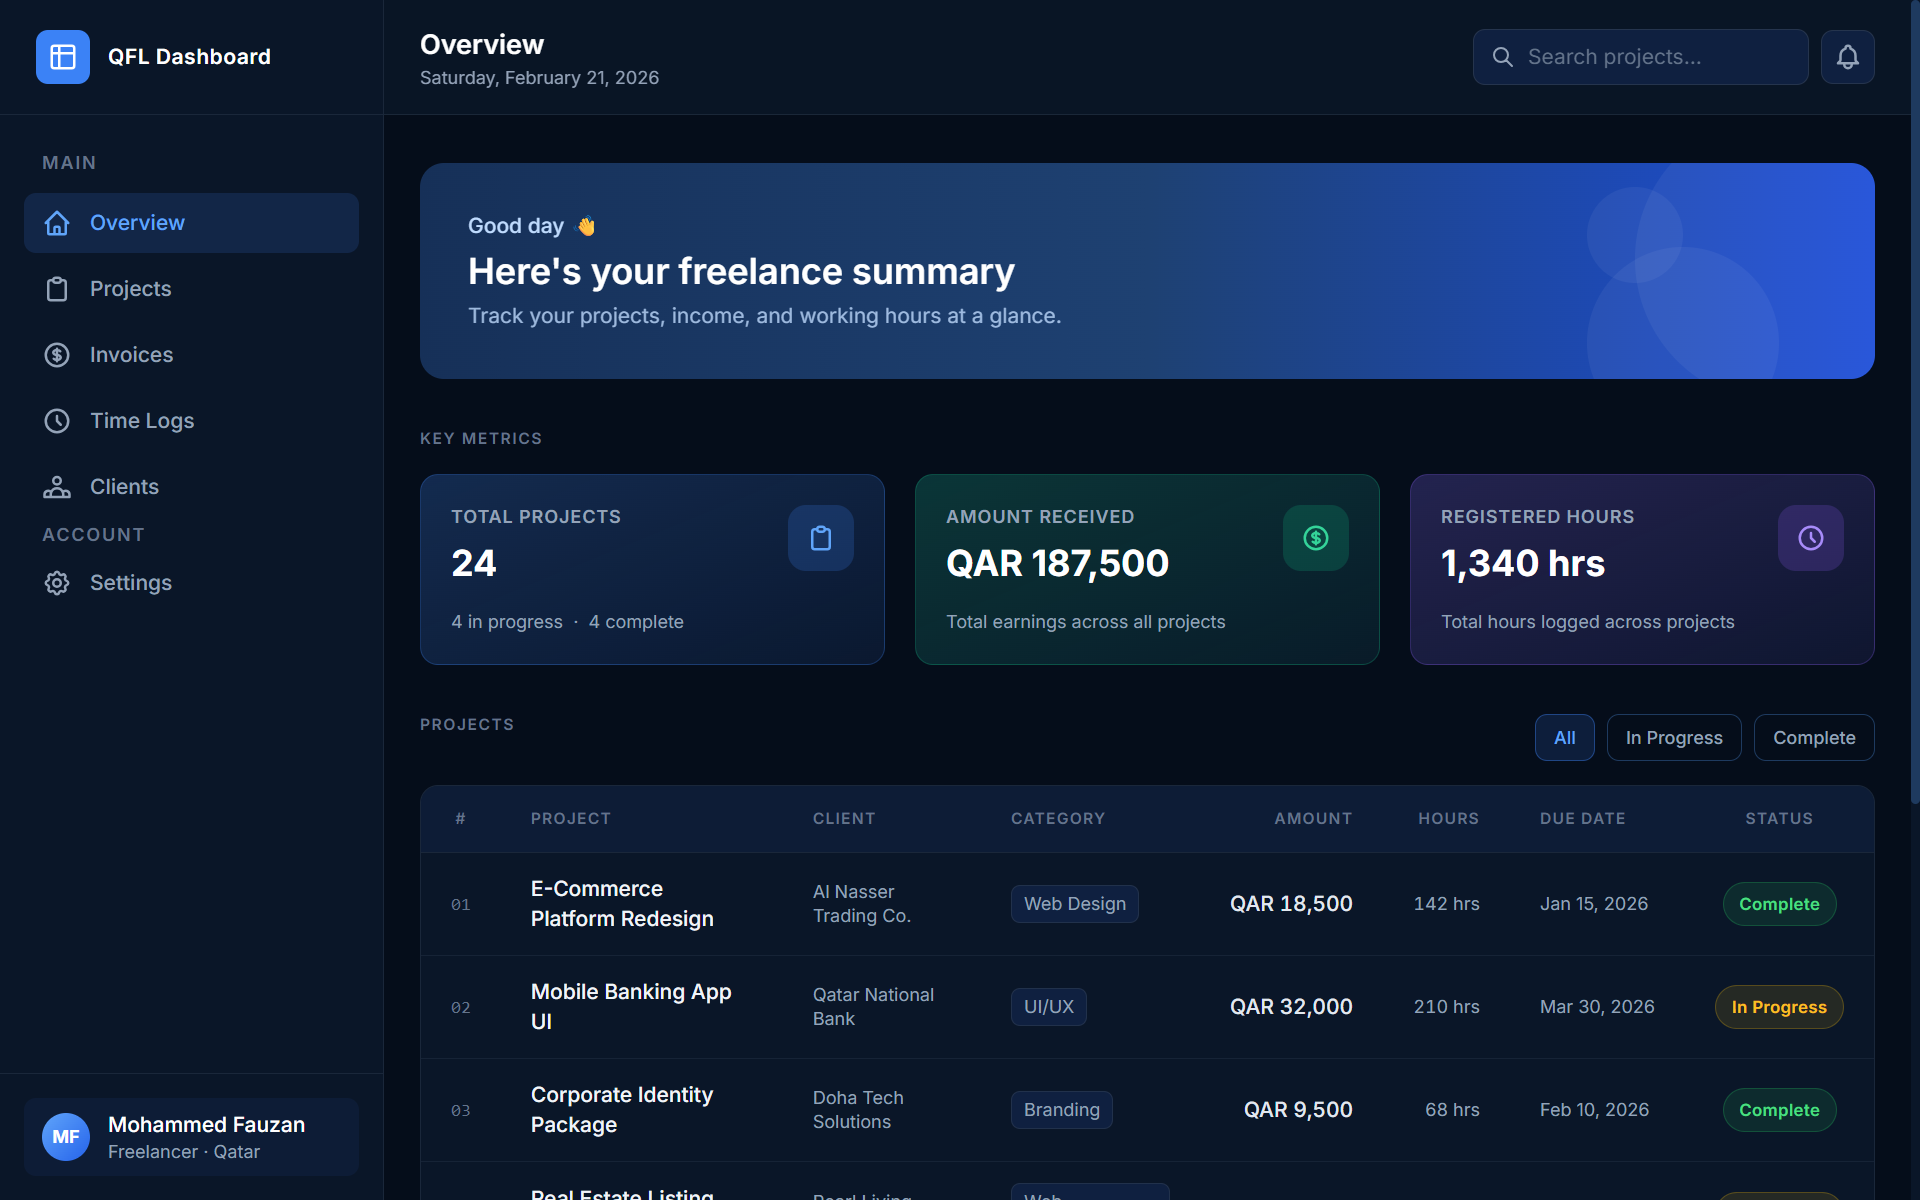
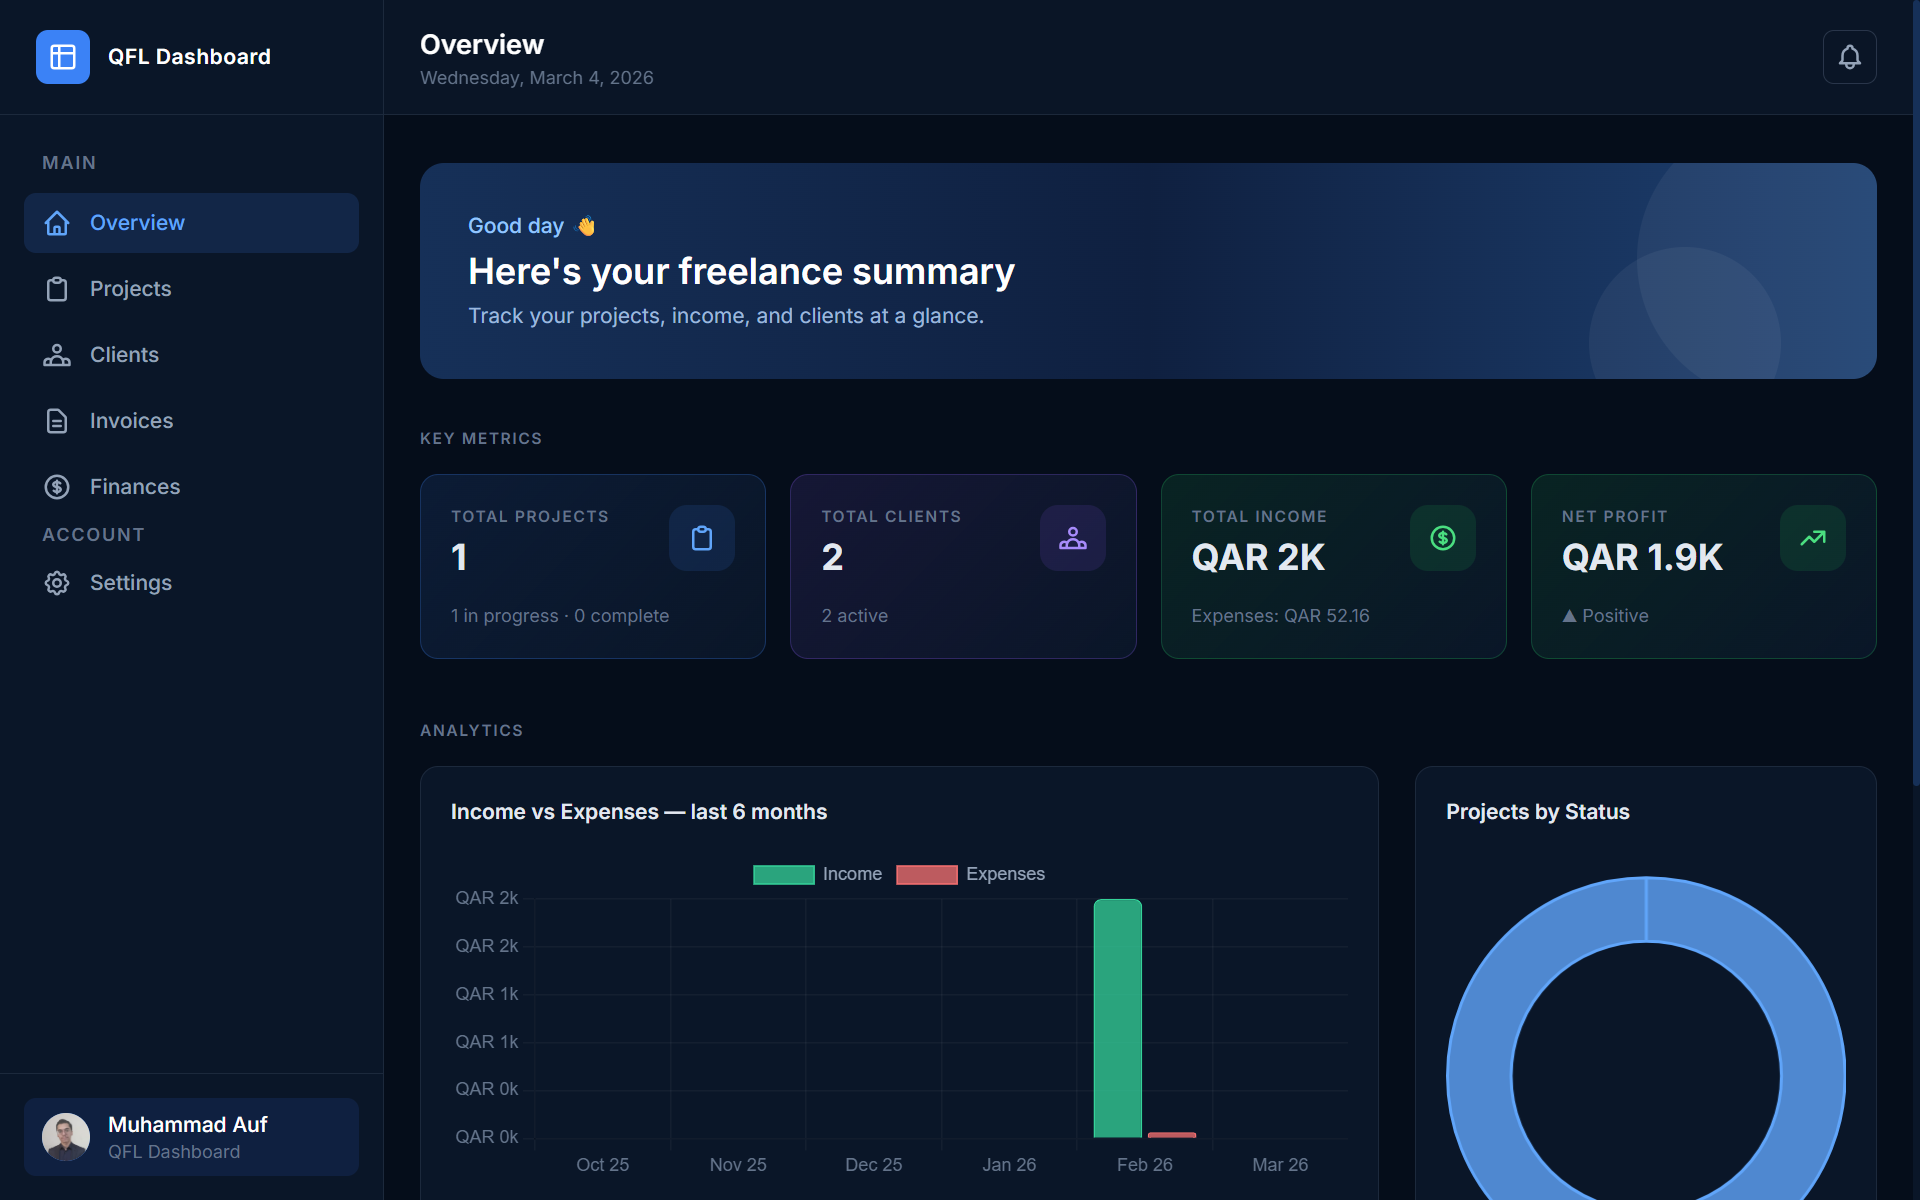
Add Projects section, Tools carousel, WhatsApp btn, footer social links, responsive fixes

diff --git a/script.js b/script.js
@@ -290,9 +290,9 @@ function renderTools(tools) {
     toolsGrid.innerHTML = tools.map(tool => {
         const label = currentLang === 'ar' ? tool.nameAr : tool.nameEn;
         return `
-            <div class="glass-card p-6 rounded-2xl text-center hover:scale-110 transition-transform duration-300 group flex flex-col items-center">
-                <img src="${tool.icon}" alt="${tool.nameEn}" class="w-12 h-12 mb-3 group-hover:scale-110 transition-transform duration-300">
-                <h3 class="text-white font-semibold" data-en="${tool.nameEn}" data-ar="${tool.nameAr}">${label}</h3>
+            <div class="carousel-card-tool glass-card p-5 rounded-2xl text-center hover:scale-105 transition-transform duration-300 group flex flex-col items-center">
+                <img src="${tool.icon}" alt="${tool.nameEn}" class="w-10 h-10 mb-3 group-hover:scale-110 transition-transform duration-300">
+                <h3 class="text-white text-sm font-semibold leading-tight" data-en="${tool.nameEn}" data-ar="${tool.nameAr}">${label}</h3>
             </div>
         `;
     }).join('');
@@ -337,6 +337,54 @@ function renderProjects(projects) {
     }).join('');
 }
 
+// ==========================================
+// Carousel – auto-scroll + arrow navigation
+// ==========================================
+function initCarousel(trackId, prevBtnId, nextBtnId, intervalMs = 3500) {
+    const track   = document.getElementById(trackId);
+    const prevBtn = document.getElementById(prevBtnId);
+    const nextBtn = document.getElementById(nextBtnId);
+    if (!track || !prevBtn || !nextBtn) return;
+
+    const getStep = () => {
+        const card = track.firstElementChild;
+        if (!card) return 220;
+        const gap = parseFloat(getComputedStyle(track).gap) || 20;
+        return card.offsetWidth + gap;
+    };
+
+    const scrollNext = () => {
+        const { scrollLeft, scrollWidth, clientWidth } = track;
+        if (scrollLeft + clientWidth >= scrollWidth - 4) {
+            track.scrollTo({ left: 0, behavior: 'smooth' });
+        } else {
+            track.scrollBy({ left: getStep(), behavior: 'smooth' });
+        }
+    };
+
+    const scrollPrev = () => {
+        if (track.scrollLeft <= 4) {
+            track.scrollTo({ left: track.scrollWidth, behavior: 'smooth' });
+        } else {
+            track.scrollBy({ left: -getStep(), behavior: 'smooth' });
+        }
+    };
+
+    // RTL: flip direction
+    const isRtl = () => document.documentElement.dir === 'rtl';
+    prevBtn.addEventListener('click', () => isRtl() ? scrollNext() : scrollPrev());
+    nextBtn.addEventListener('click', () => isRtl() ? scrollPrev() : scrollNext());
+
+    let timer = setInterval(scrollNext, intervalMs);
+    const pause = () => clearInterval(timer);
+    const resume = () => { timer = setInterval(scrollNext, intervalMs); };
+
+    track.addEventListener('mouseenter', pause);
+    track.addEventListener('mouseleave', resume);
+    track.addEventListener('touchstart', pause, { passive: true });
+    track.addEventListener('touchend',   resume, { passive: true });
+}
+
 async function loadExternalContent() {
     try {
         const [servicesResponse, toolsResponse, projectsResponse] = await Promise.all([
@@ -359,6 +407,8 @@ async function loadExternalContent() {
         renderTools(tools);
         renderProjects(projects);
 
+        initCarousel('toolsGrid', 'toolsPrev', 'toolsNext', 3000);
+
         setLanguage(currentLang);
         animateOnScroll();
     } catch (error) {
@@ -367,68 +417,6 @@ async function loadExternalContent() {
 }
 
 window.addEventListener('load', loadExternalContent);
-
-// ==========================================
-// Service Order Form – Details Reveal
-// ==========================================
-const serviceSelect = document.getElementById('serviceSelect');
-const serviceDetails = document.getElementById('serviceDetails');
-const serviceDetailTitle = document.getElementById('serviceDetailTitle');
-const serviceDetailPrice = document.getElementById('serviceDetailPrice');
-const serviceDetailList = document.getElementById('serviceDetailList');
-
-const serviceData = {
-    'Frontend Development': {
-        price: '500 QR',
-        items: [
-            'Responsive design for all screen sizes',
-            'Modern UI with HTML, CSS & JavaScript',
-            'Cross-browser compatibility',
-            'Performance optimized code',
-            'Up to 5 pages'
-        ]
-    },
-    'Landing Page': {
-        price: '300 QR',
-        items: [
-            'Single-page conversion-focused design',
-            'Contact form integration',
-            'SEO-friendly structure',
-            'Mobile-first responsive layout',
-            'Fast delivery within 3 days'
-        ]
-    },
-    'Full-Stack WebApp': {
-        price: '1500 QR',
-        items: [
-            'Frontend & Backend development',
-            'Database design and integration',
-            'User authentication & authorization',
-            'REST API development',
-            'Deployment & hosting setup'
-        ]
-    }
-};
-
-if (serviceSelect) {
-    serviceSelect.addEventListener('change', function () {
-        const key = this.value;
-        const data = serviceData[key];
-
-        if (data) {
-            serviceDetailTitle.textContent = this.options[this.selectedIndex].textContent;
-            serviceDetailPrice.textContent = data.price;
-            serviceDetailList.innerHTML = data.items
-                .map(item => `<li class="flex items-start gap-2"><svg class="w-4 h-4 mt-0.5 text-accent-gold shrink-0" viewBox="0 0 20 20" fill="currentColor"><path fill-rule="evenodd" d="M16.707 5.293a1 1 0 010 1.414l-8 8a1 1 0 01-1.414 0l-4-4a1 1 0 011.414-1.414L8 12.586l7.293-7.293a1 1 0 011.414 0z" clip-rule="evenodd"/></svg><span>${item}</span></li>`)
-                .join('');
-            serviceDetails.classList.remove('hidden');
-            serviceDetails.classList.add('service-details-show');
-        } else {
-            serviceDetails.classList.add('hidden');
-            serviceDetails.classList.remove('service-details-show');
-        }
-    });
-}
 
 // Update placeholders on language change
 function updatePlaceholders(lang) {

diff --git a/index.html b/index.html
@@ -235,8 +235,16 @@
         <div class="max-w-7xl mx-auto">
             <h2 class="font-display text-4xl md:text-5xl font-bold text-center mb-4 text-gradient" data-en="My Tools" data-ar="أدواتي">My Tools</h2>
             <p class="text-center text-white/60 mb-16 text-lg" data-en="Technologies and tools I work with" data-ar="التقنيات والأدوات التي أعمل بها">Technologies and tools I work with</p>
-            
-            <div id="toolsGrid" class="grid grid-cols-2 md:grid-cols-3 lg:grid-cols-4 xl:grid-cols-5 gap-6"></div>
+
+            <div class="carousel-wrapper">
+                <button id="toolsPrev" class="carousel-btn carousel-btn-prev" aria-label="Previous">
+                    <svg class="w-5 h-5" viewBox="0 0 24 24" fill="none" stroke="currentColor" stroke-width="2.5"><polyline points="15 18 9 12 15 6"/></svg>
+                </button>
+                <div id="toolsGrid" class="carousel-track"></div>
+                <button id="toolsNext" class="carousel-btn carousel-btn-next" aria-label="Next">
+                    <svg class="w-5 h-5" viewBox="0 0 24 24" fill="none" stroke="currentColor" stroke-width="2.5"><polyline points="9 18 15 12 9 6"/></svg>
+                </button>
+            </div>
         </div>
     </section>
 
@@ -283,18 +291,8 @@
                         <option value="Frontend Development" data-en="Frontend Development" data-ar="تطوير الواجهات الأمامية">Frontend Development</option>
                         <option value="Landing Page" data-en="Landing Page" data-ar="صفحة هبوط">Landing Page</option>
                         <option value="Full-Stack WebApp" data-en="Full-Stack WebApp" data-ar="تطبيق ويب متكامل">Full-Stack WebApp</option>
+                        <option value="Other" data-en="Other" data-ar="أخرى">Other</option>
                     </select>
-                </div>
-
-                <!-- Service Details Reveal -->
-                <div id="serviceDetails" class="hidden service-details-reveal">
-                    <div class="rounded-2xl bg-white/5 border border-accent-gold/30 p-6 space-y-3">
-                        <div class="flex items-center justify-between">
-                            <h4 id="serviceDetailTitle" class="text-lg font-bold text-white"></h4>
-                            <span id="serviceDetailPrice" class="text-xl font-bold text-accent-gold"></span>
-                        </div>
-                        <ul id="serviceDetailList" class="space-y-2 text-white/70 text-sm"></ul>
-                    </div>
                 </div>
 
                 <!-- Details -->
@@ -359,6 +357,16 @@
                     </div>
                     <!-- Social Links -->
                     <div class="flex gap-4">
+                        <a href="https://wa.me/97433005113"
+                           aria-label="WhatsApp"
+                           target="_blank"
+                           rel="noopener noreferrer"
+                           class="w-10 h-10 flex items-center justify-center rounded-full backdrop-blur-xl bg-white/5 border border-white/10 text-white hover:scale-110 transition-all duration-300"
+                           style="color:#fff" onmouseover="this.style.backgroundColor='#25D366'" onmouseout="this.style.backgroundColor=''">
+                            <svg class="w-5 h-5" viewBox="0 0 24 24" fill="currentColor">
+                                <path d="M20.52 3.48A11.93 11.93 0 0 0 12 0C5.373 0 0 5.373 0 12a11.93 11.93 0 0 0 1.67 6.12L0 24l6.09-1.6A11.94 11.94 0 0 0 12 24c6.627 0 12-5.373 12-12 0-3.204-1.248-6.216-3.48-8.52zM12 22a9.94 9.94 0 0 1-5.06-1.38l-.36-.21-3.74.98.99-3.63-.24-.37A9.944 9.944 0 0 1 2 12C2 6.477 6.477 2 12 2s10 4.477 10 10-4.477 10-10 10zm5.47-7.4c-.3-.15-1.77-.87-2.04-.97-.27-.1-.47-.15-.67.15s-.77.97-.94 1.17c-.17.2-.35.22-.65.07a8.16 8.16 0 0 1-2.4-1.48 8.98 8.98 0 0 1-1.66-2.07c-.17-.3-.02-.46.13-.6.13-.13.3-.35.45-.52.15-.17.2-.3.3-.5.1-.2.05-.37-.02-.52-.07-.15-.67-1.6-.91-2.2-.24-.57-.48-.5-.67-.5h-.57c-.2 0-.52.07-.8.37-.27.3-1.04 1.02-1.04 2.48s1.07 2.88 1.22 3.08c.15.2 2.1 3.2 5.08 4.49.71.31 1.27.49 1.7.63.72.23 1.37.2 1.88.12.57-.08 1.77-.72 2.02-1.42.25-.7.25-1.3.17-1.42-.07-.12-.27-.2-.57-.35z"/>
+                            </svg>
+                        </a>
                         <a href="https://www.linkedin.com/in/mmfauf/" 
                            aria-label="LinkedIn" 
                            target="_blank"
@@ -385,6 +393,16 @@
             </div>
         </div>
     </footer>
+
+    <!-- WhatsApp Floating Button -->
+    <a href="https://wa.me/97433005113" target="_blank" rel="noopener noreferrer"
+       aria-label="Chat on WhatsApp"
+       class="fixed bottom-6 right-6 rtl:right-auto rtl:left-6 z-[9999] flex items-center justify-center w-14 h-14 rounded-full shadow-lg hover:scale-110 active:scale-95 transition-transform duration-300"
+       style="background-color: #25D366;">
+        <svg class="w-7 h-7 text-white" viewBox="0 0 24 24" fill="currentColor" xmlns="http://www.w3.org/2000/svg">
+            <path d="M20.52 3.48A11.93 11.93 0 0 0 12 0C5.373 0 0 5.373 0 12a11.93 11.93 0 0 0 1.67 6.12L0 24l6.09-1.6A11.94 11.94 0 0 0 12 24c6.627 0 12-5.373 12-12 0-3.204-1.248-6.216-3.48-8.52zM12 22a9.94 9.94 0 0 1-5.06-1.38l-.36-.21-3.74.98.99-3.63-.24-.37A9.944 9.944 0 0 1 2 12C2 6.477 6.477 2 12 2s10 4.477 10 10-4.477 10-10 10zm5.47-7.4c-.3-.15-1.77-.87-2.04-.97-.27-.1-.47-.15-.67.15s-.77.97-.94 1.17c-.17.2-.35.22-.65.07a8.16 8.16 0 0 1-2.4-1.48 8.98 8.98 0 0 1-1.66-2.07c-.17-.3-.02-.46.13-.6.13-.13.3-.35.45-.52.15-.17.2-.3.3-.5.1-.2.05-.37-.02-.52-.07-.15-.67-1.6-.91-2.2-.24-.57-.48-.5-.67-.5h-.57c-.2 0-.52.07-.8.37-.27.3-1.04 1.02-1.04 2.48s1.07 2.88 1.22 3.08c.15.2 2.1 3.2 5.08 4.49.71.31 1.27.49 1.7.63.72.23 1.37.2 1.88.12.57-.08 1.77-.72 2.02-1.42.25-.7.25-1.3.17-1.42-.07-.12-.27-.2-.57-.35z"/>
+        </svg>
+    </a>
 
     <script src="script.js"></script>
 </body>

diff --git a/styles.css b/styles.css
@@ -1888,6 +1888,77 @@ body > .control-buttons .lang-toggle {
 }
 
 /* ==================== */
+/* ==========================================
+   Carousel
+   ========================================== */
+.carousel-wrapper {
+    position: relative;
+    padding: 0 3rem;
+}
+
+.carousel-track {
+    display: flex;
+    gap: 1.25rem;
+    overflow-x: auto;
+    scroll-snap-type: x mandatory;
+    scroll-behavior: smooth;
+    -webkit-overflow-scrolling: touch;
+    scrollbar-width: none;
+    padding: 0.5rem 0 1rem;
+}
+
+.carousel-track::-webkit-scrollbar {
+    display: none;
+}
+
+/* Tool cards */
+.carousel-card-tool {
+    scroll-snap-align: start;
+    flex-shrink: 0;
+    width: 9rem;
+}
+
+@media (max-width: 640px) {
+    .carousel-wrapper {
+        padding: 0 2.25rem;
+    }
+    .carousel-card-tool {
+        width: 7.5rem;
+    }
+}
+
+.carousel-btn {
+    position: absolute;
+    top: 50%;
+    transform: translateY(-50%);
+    z-index: 10;
+    width: 2.65rem;
+    height: 2.65rem;
+    border-radius: 50%;
+    display: flex;
+    align-items: center;
+    justify-content: center;
+    background: rgba(255, 255, 255, 0.07);
+    backdrop-filter: blur(12px);
+    border: 1px solid rgba(255, 255, 255, 0.12);
+    color: #ffc857;
+    cursor: pointer;
+    transition: background 0.25s, transform 0.25s;
+}
+
+.carousel-btn:hover {
+    background: rgba(255, 200, 87, 0.18);
+    transform: translateY(-50%) scale(1.12);
+}
+
+.carousel-btn-prev { left: 0; }
+.carousel-btn-next { right: 0; }
+
+[dir="rtl"] .carousel-btn-prev { left: auto; right: 0; }
+[dir="rtl"] .carousel-btn-next { right: auto; left: 0; }
+[dir="rtl"] .carousel-btn-prev svg { transform: scaleX(-1); }
+[dir="rtl"] .carousel-btn-next svg { transform: scaleX(-1); }
+
 /* Mobile Sidebar Nav */
 /* ==================== */
 .nav-backdrop {
